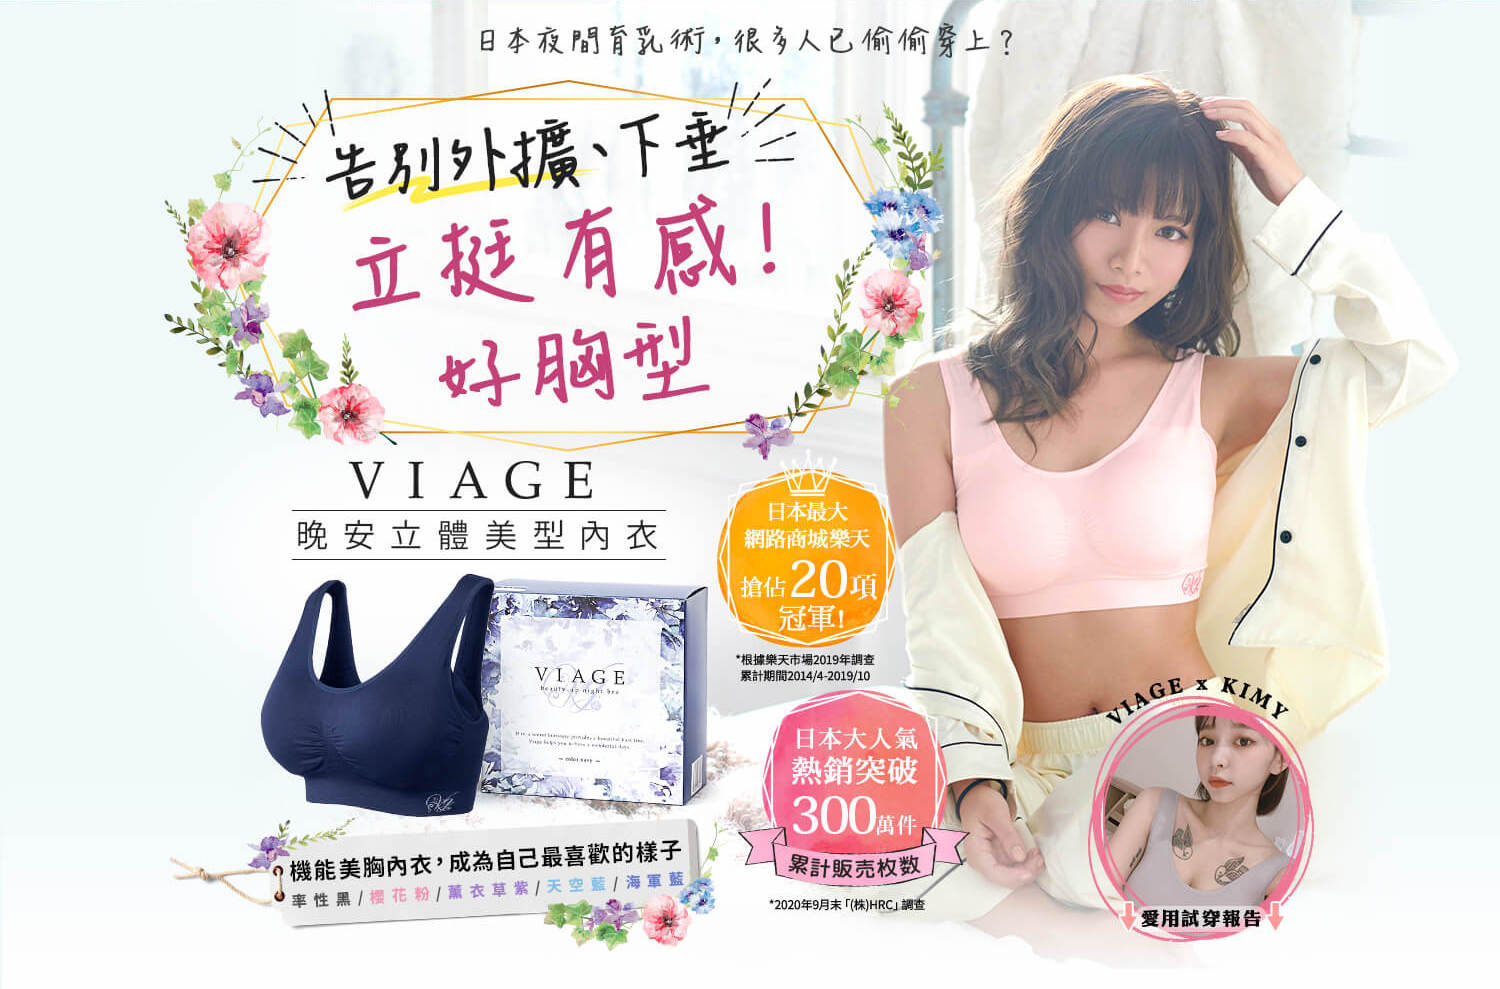
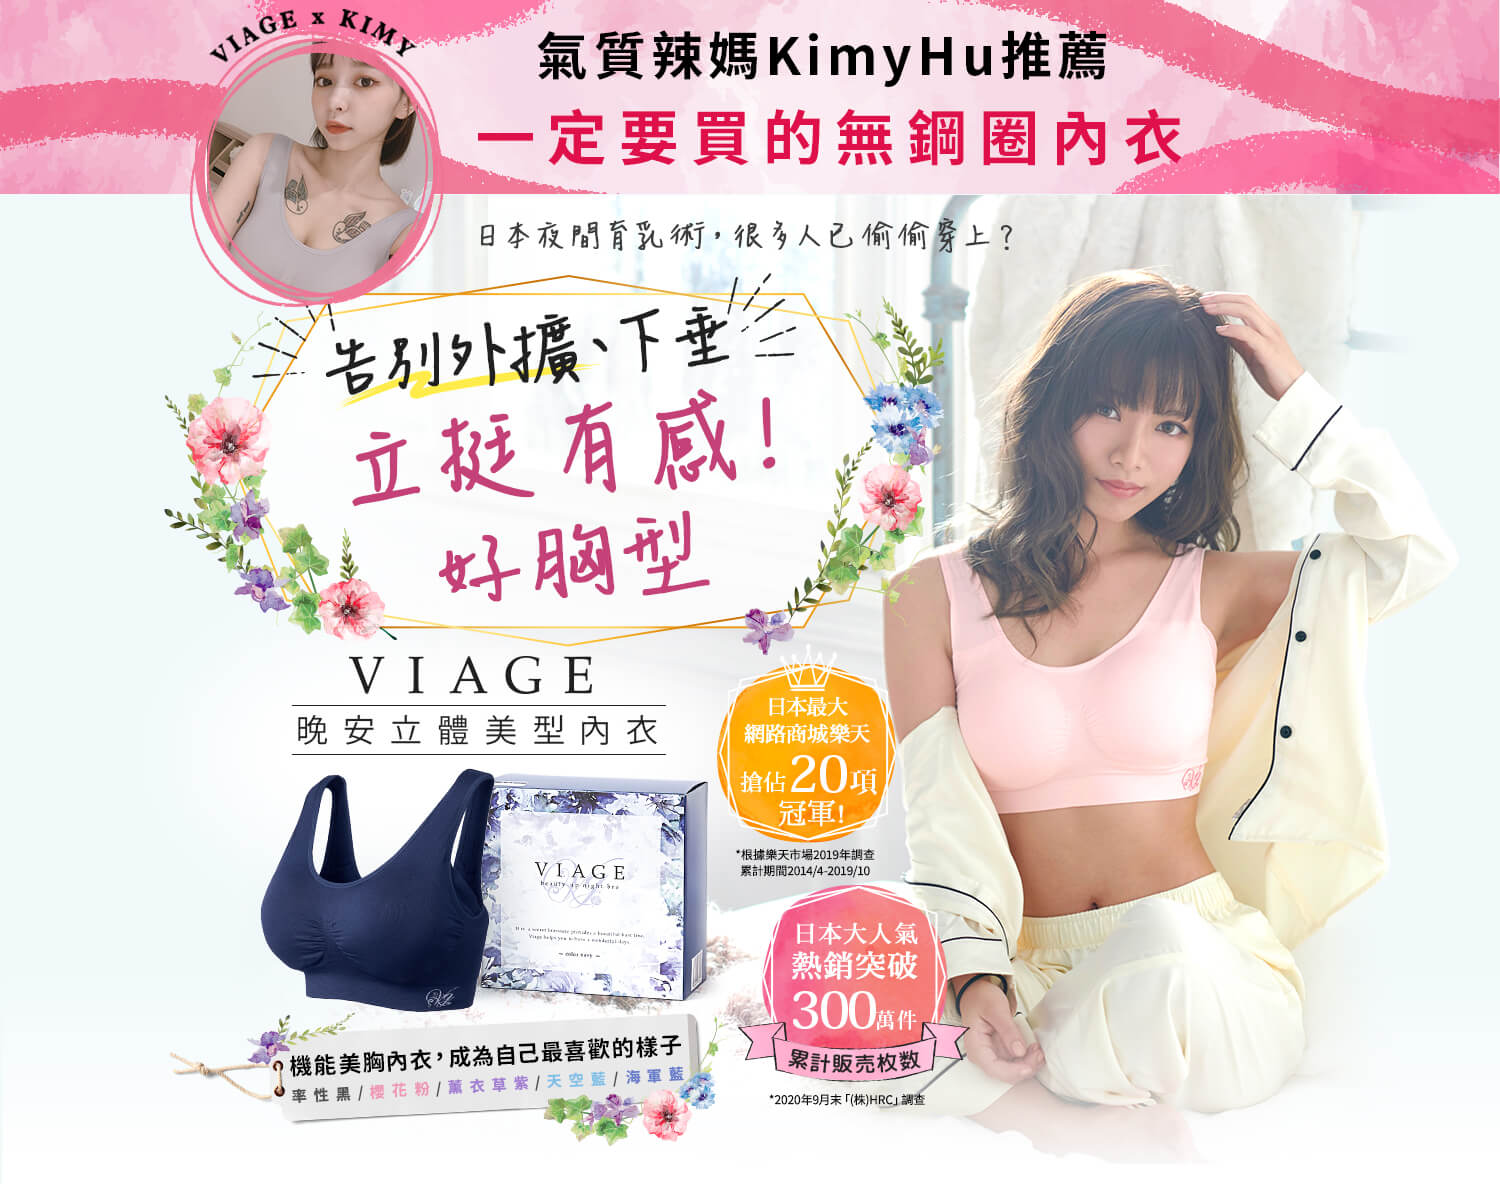
20201202_photo update

diff --git a/index.html b/index.html
@@ -335,11 +335,11 @@
                 <!-- 01_main -->
                 <section id="01_main">
                     <div class="PC">
-                        <img src="images/01_banner.jpg" width=100% alt="">
+                        <!-- <img src="images/01_banner.jpg" width=100% alt=""> -->
                         <img src="images/01_main.jpg" width=100% alt="">
                     </div>
                     <div class="mobile">
-                        <img src="images/SMP/01_banner_SMP.jpg" width=100% alt="">
+                        <!-- <img src="images/SMP/01_banner_SMP.jpg" width=100% alt=""> -->
                         <img src="images/SMP/01_main_SMP.jpg" width=100% alt="">
                     </div>
                 </section>
